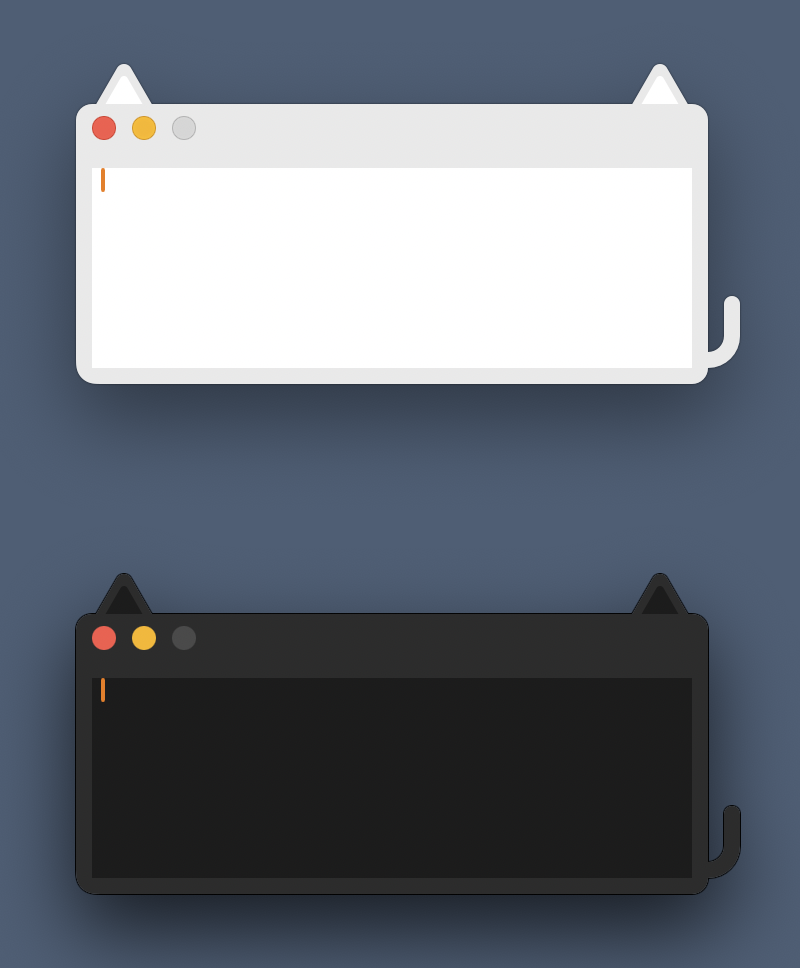
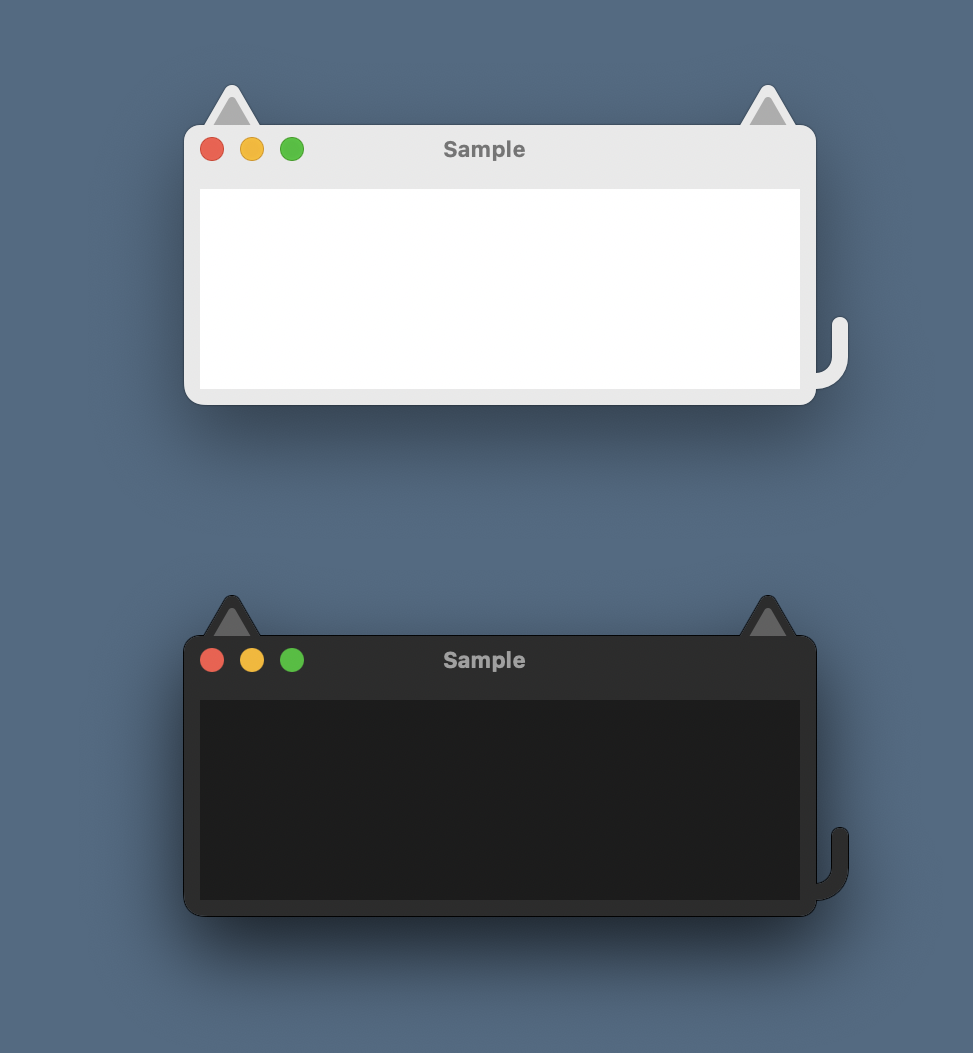
title settable

Changed region(s): [[0.0312, 0.5579, 0.9688, 1.0], [0.0625, 0.062, 0.9375, 0.4649]]

diff --git a/Sources/NSCatWindow/NSCatView.swift b/Sources/NSCatWindow/NSCatView.swift
@@ -4,6 +4,7 @@ final class NSCatView: NSView {
     private let earOffset: CGFloat = 24
     private let toolbarHeight: CGFloat = 24
     private let tailRadius: CGFloat = 8
+    private var titleLabel = NSTextField(labelWithString: "")
 
     required init?(coder: NSCoder) {
         fatalError("init(coder:) has not been implemented")
@@ -11,13 +12,22 @@ final class NSCatView: NSView {
 
     init(childView: NSView) {
         super.init(frame: .zero)
+
         childView.translatesAutoresizingMaskIntoConstraints = false
         addSubview(childView)
         childView.leftAnchor.constraint(equalTo: leftAnchor).isActive = true
         childView.rightAnchor.constraint(equalTo: rightAnchor, constant: -2 * tailRadius).isActive = true
-        let offset = earOffset + toolbarHeight
+        var offset = earOffset + toolbarHeight
         childView.topAnchor.constraint(equalTo: topAnchor, constant: offset).isActive = true
         childView.bottomAnchor.constraint(equalTo: bottomAnchor).isActive = true
+
+        titleLabel.translatesAutoresizingMaskIntoConstraints = false
+        addSubview(titleLabel)
+        titleLabel.centerXAnchor.constraint(equalTo: centerXAnchor, constant: -2 * tailRadius).isActive = true
+        offset = earOffset + 0.5 * toolbarHeight
+        titleLabel.centerYAnchor.constraint(equalTo: topAnchor, constant: offset).isActive = true
+        titleLabel.font = NSFont.systemFont(ofSize: 11, weight: .bold)
+        titleLabel.textColor = NSColor.secondaryLabelColor
     }
 
     override func draw(_ dirtyRect: NSRect) {
@@ -125,8 +135,12 @@ final class NSCatView: NSView {
         path.line(to: CGPoint(x: rightInnerCenter.x + innerRadius * cos(phi3),
                               y: rightInnerCenter.y + innerRadius * sin(phi3)))
         path.close()
-        NSColor.textBackgroundColor.setFill()
+        NSColor.tertiaryLabelColor.setFill()
         path.fill()
+    }
+
+    func setTitle(_ title: String) {
+        titleLabel.stringValue = title
     }
 
     func setWindowButton(_ button: NSButton?) {

diff --git a/Sources/NSCatWindow/NSCatWindow.swift b/Sources/NSCatWindow/NSCatWindow.swift
@@ -2,14 +2,13 @@ import AppKit
 import SwiftUI
 
 open class NSCatWindow: NSWindow {
-    public init(childView: NSView? = nil) {
+    public init(title: String? = nil, childView: NSView? = nil) {
         super.init(
             contentRect: .zero,
             styleMask: [.closable, .miniaturizable, .resizable, .fullSizeContentView, .titled],
             backing: .buffered,
             defer: false
         )
-        isReleasedWhenClosed = false
         isMovableByWindowBackground = true
         titlebarAppearsTransparent = true
         backgroundColor = .clear
@@ -24,13 +23,17 @@ open class NSCatWindow: NSWindow {
         contentView = NSCatView(childView: childView)
     }
 
+    public func setTitle(_ title: String) {
+        (contentView as? NSCatView)?.setTitle(title)
+    }
+
     override public var canBecomeKey: Bool { true }
 
     override public var canBecomeMain: Bool { true }
 
     override public func updateConstraintsIfNeeded() {
         super.updateConstraintsIfNeeded()
-        if let catView = contentView as? NSCatView, catView.subviews.count == 1 {
+        if let catView = contentView as? NSCatView, catView.subviews.count == 2 {
             catView.setWindowButton(standardWindowButton(.closeButton))
             catView.setWindowButton(standardWindowButton(.miniaturizeButton))
             catView.setWindowButton(standardWindowButton(.zoomButton))

diff --git a/Example/Example/AppDelegate.swift b/Example/Example/AppDelegate.swift
@@ -16,6 +16,7 @@ class AppDelegate: NSObject, NSApplicationDelegate {
     func applicationDidFinishLaunching(_ aNotification: Notification) {
         let hostingView = NSHostingView(rootView: SampleView())
         catWindow = NSCatWindow(childView: hostingView)
+        catWindow?.setTitle("Sample")
         catWindow?.center()
         catWindow?.orderFront(self)
     }
